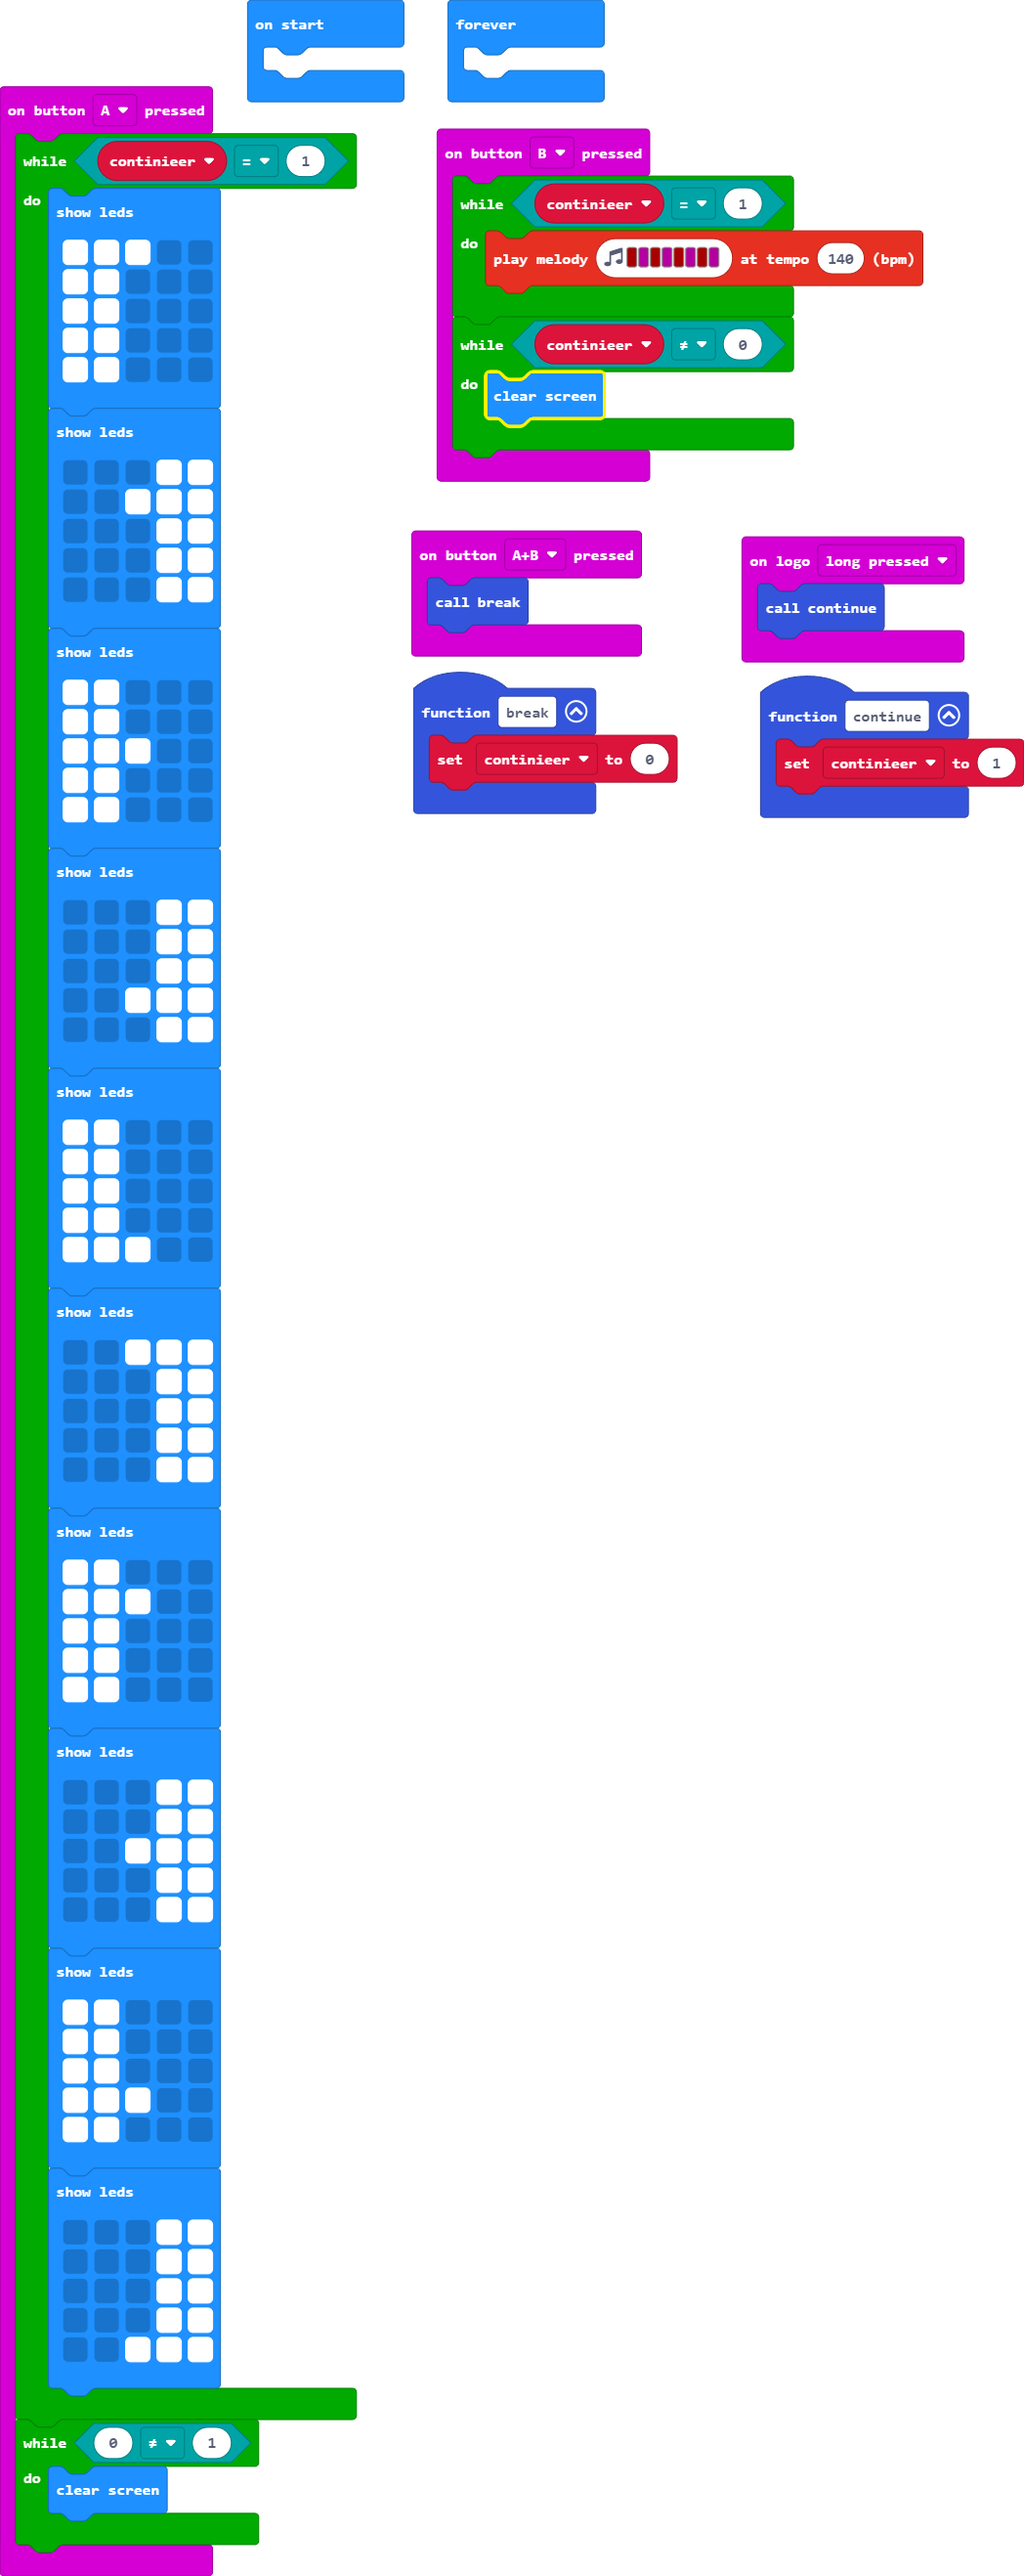
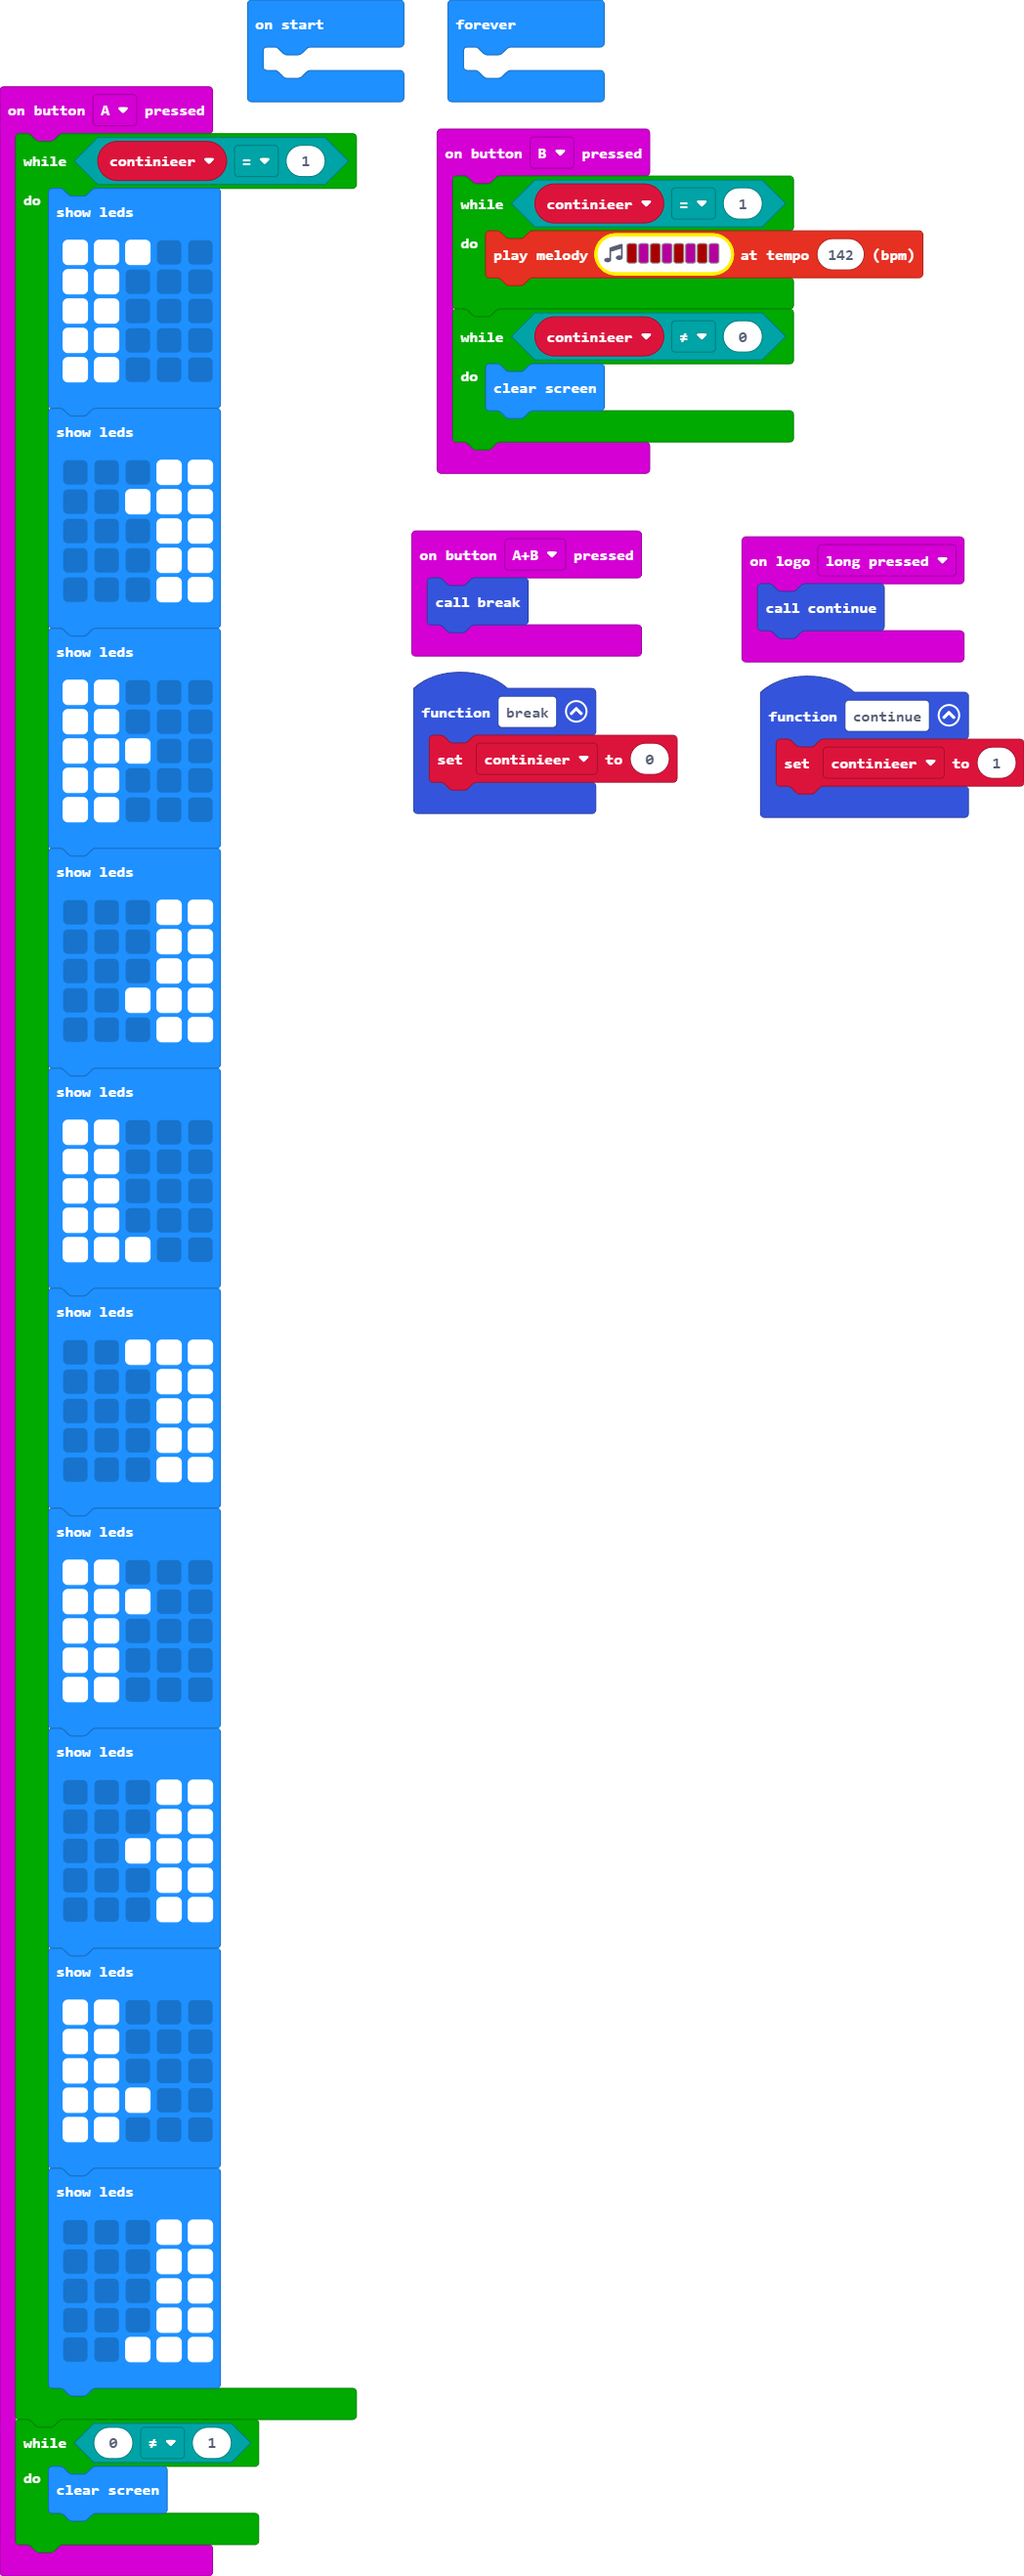
Update main.blocks, main.ts

Changed region(s): [[0.4275, 0.0934, 0.8855, 0.1867]]

diff --git a/main.ts b/main.ts
@@ -90,7 +90,7 @@ input.onButtonPressed(Button.AB, function () {
 })
 input.onButtonPressed(Button.B, function () {
     while (continieer == 1) {
-        music.playMelody("C5 C C5 C C5 C C5 C ", 140)
+        music.playMelody("C5 C C5 C C5 C C5 C ", 142)
     }
     while (continieer != 0) {
         basic.clearScreen()
